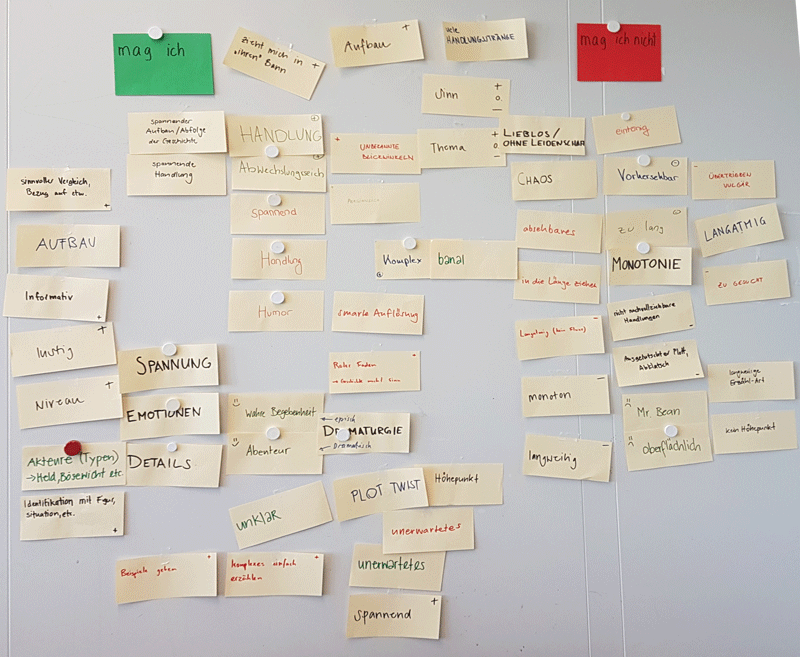
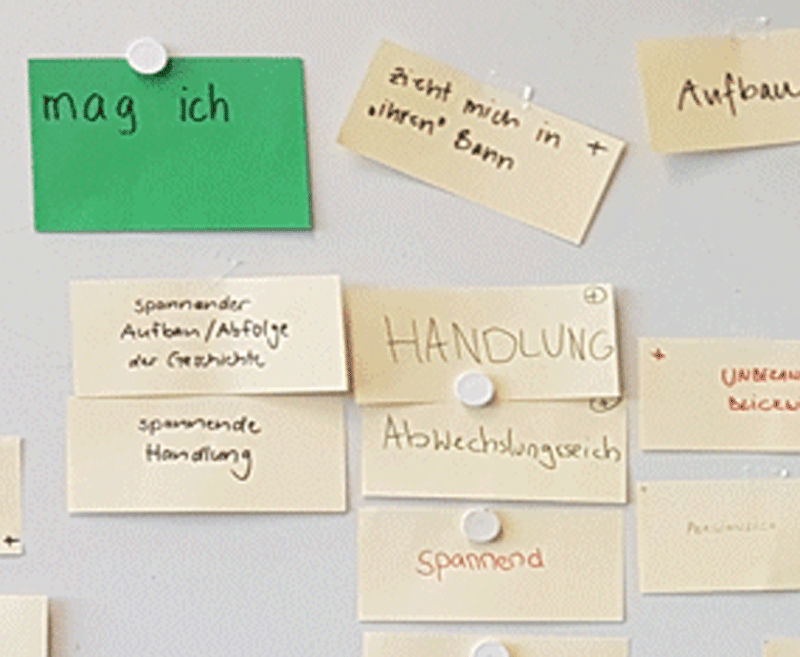
magich

diff --git a/content.html b/content.html
@@ -60,13 +60,34 @@
     <h2># Interaktion</h2>
     <p>Als zukünftige Interaction Designer müssen wir ein einfaches, zum Thema passendes Interface kreieren können. Der User soll schnell erkennen was er wie machen kann/soll.
 </p>
-<P>Hier ein einfaches Beispiel eines Interface, bei welchem schnell erkannt wird um was man machen kann:</p>
+<P>Hier ein einfaches, kurzweiliges Beispiel eines Interface, bei welchem schnell erkannt wird was man machen kann:</p>
 		<iframe width="100%" max-width="800px" height="280px"src="http://trumpdonald.org/">
    <a href="http://trumpdonald.org/">Interaktion auf trumpdonald.org</a>
 </iframe>
+<h4 style="float: right; color: white; margin-top: -0.8em;">&copy; trumpdonald.org</h4><br>
+
 
 	<br><hr></br>
 	<h2 id="dramaturgie"># Dramaturgie</h2>
+	<p style="font-style: italic;">"Der Begriff Dramaturgie (von griechisch δραματουργέιν dramaturgéin „ein Drama verfassen“) hat heute mehrere Bedeutungen. Ursprünglich bezieht er sich auf die Komposition von Dramen.</p>
+	<img src="./img/probleme.png" alt="Mag ich / Mag ich nicht" width="25%" height="auto" style="float:right; padding-left: 25px; padding-bottom: 15px;"></a>
+
+<p>Die Erzählarten:</p>
+<ul>
+	<li>Dramatik: Epilog/Exposition   >   Konflikt    >    Auflösung</li>
+	<li>Episodenfilm</li>
+	<li>Krimi (Who-done-it-Prinzip)</li>
+</ul>
+<p>Wie muss eine Geschichte erzählt sein? Was mag ich, was mag ich nicht in erzählten Geschichten?</p>
+<ul>
+	<li>Erwartungsreaktion brechen</li>
+	<li>Überraschung vs. Spannung</li>
+	<li>Voraussicht / Vorankündigung</li>
+	<li>Pflanzen (sähen) & ernten</li>
+	<li>Dramatik & Epik</li>
+	<li>Ensemble</li>
+</ul>
+
 
 	<br><hr></br>
 	<h2 id="storyboards"># Storyboards</h2>
